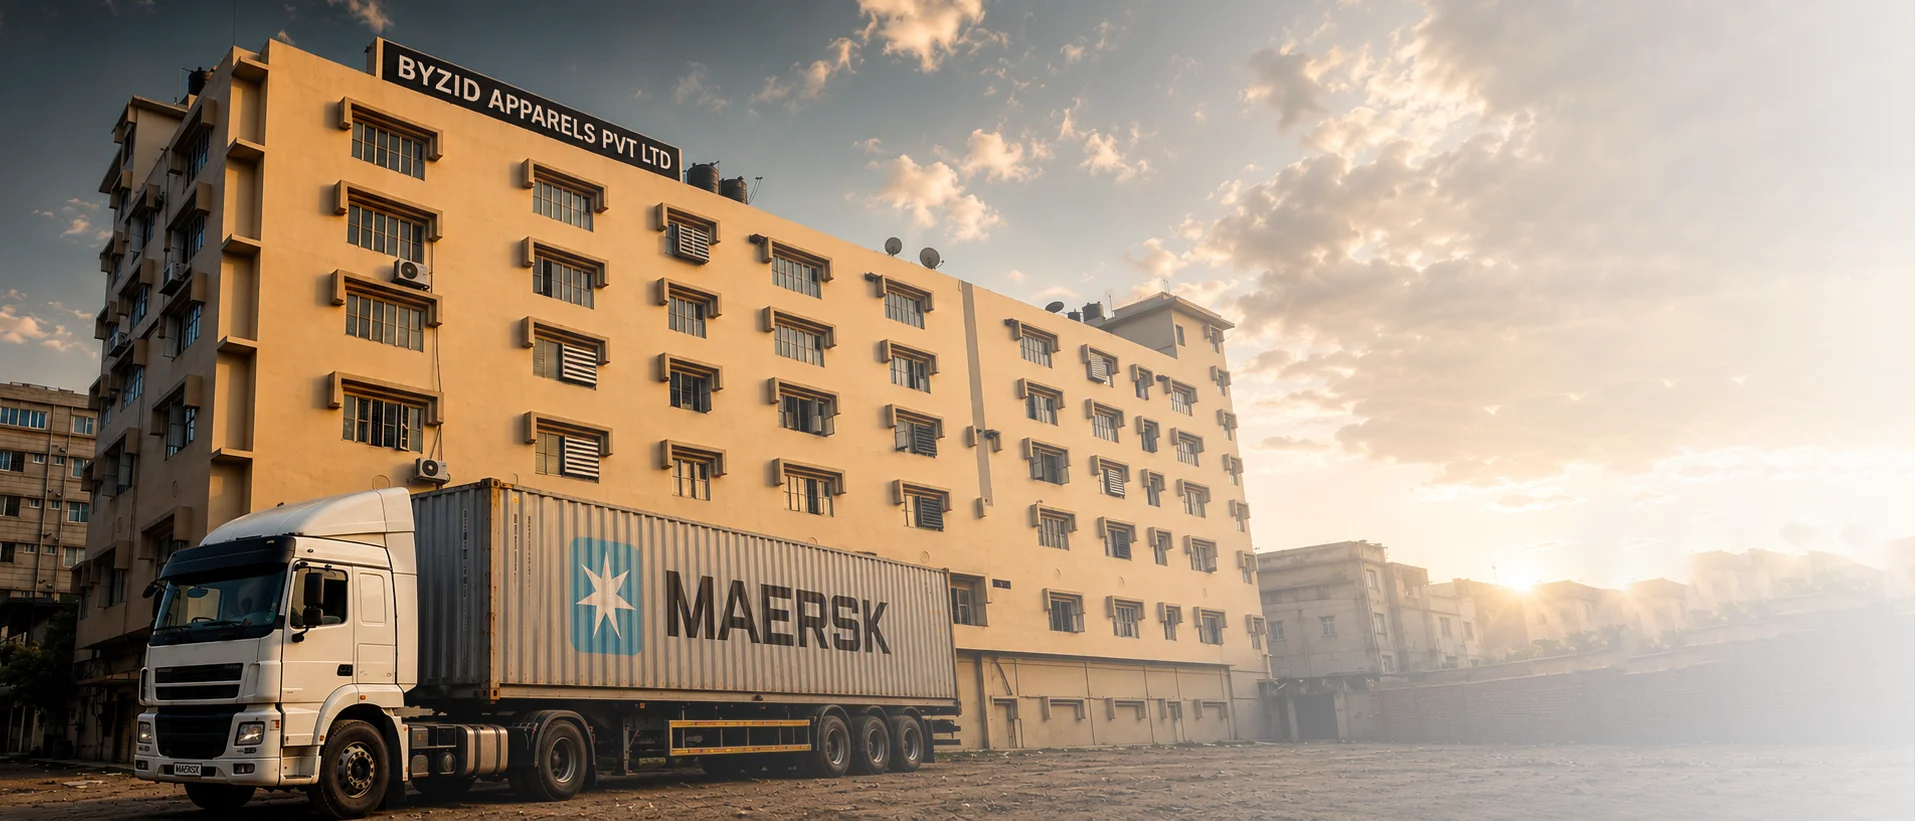
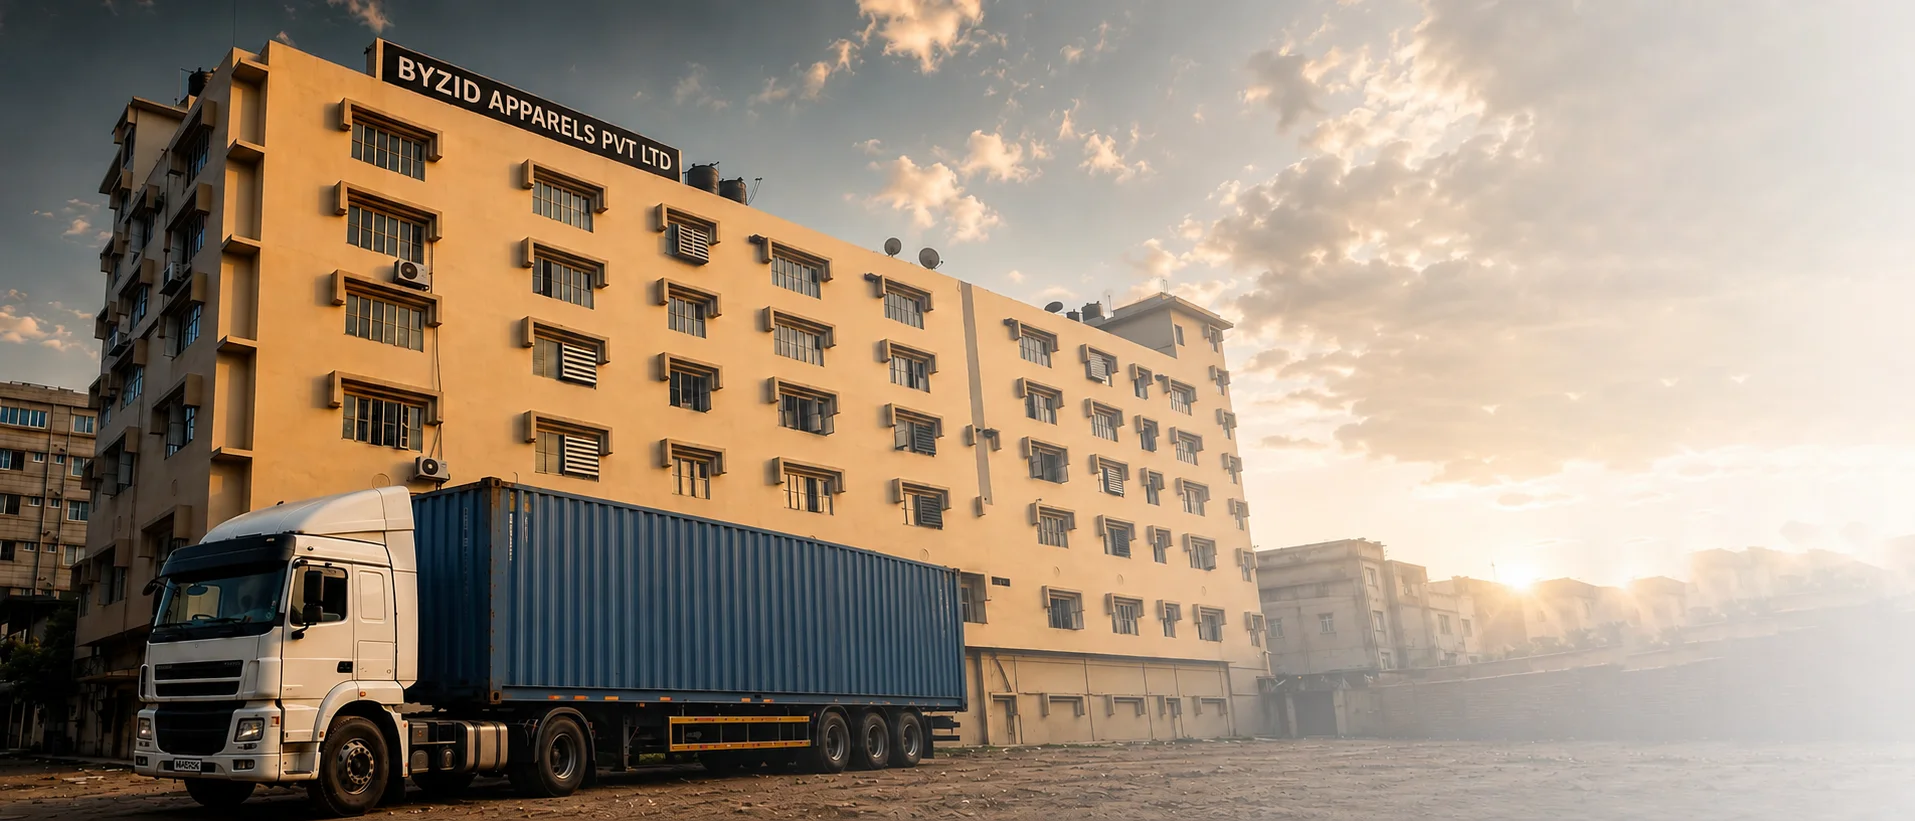
feat: update PC & mobile hero images and redesign Back to Top button as small round circle with animating arrow & 4px top padding

diff --git a/components/DeckContainer.tsx b/components/DeckContainer.tsx
@@ -176,16 +176,16 @@ export const DeckContainer: React.FC = () => {
       </section>
 
       {/* Mobile Bottom Footer & Back to Top */}
-      <footer className="block md:hidden w-full px-6 pt-[6px] pb-[6px] text-center select-none relative z-10">
+      <footer className="block md:hidden w-full px-6 pt-[4px] pb-[6px] text-center select-none relative z-10">
         <button
           type="button"
           onClick={() => scrollToSlide(0)}
-          className="inline-flex items-center gap-2 px-5 py-2.5 rounded-full bg-slate-900/90 border border-slate-700/80 text-slate-300 hover:text-white hover:border-[#55c538] text-xs font-bold transition-all shadow-md active:scale-95 cursor-pointer"
+          aria-label="Back to Top"
+          className="inline-flex items-center justify-center w-8 h-8 rounded-full bg-slate-900/90 border border-slate-700/80 text-[#3b82f6] hover:text-white hover:border-[#3b82f6] transition-all shadow-md active:scale-90 cursor-pointer mx-auto group"
         >
-          <ArrowUp className="w-3.5 h-3.5 text-[#55c538]" />
-          <span>Back to Top</span>
+          <ArrowUp className="w-4 h-4 text-[#3b82f6] animate-bounce" />
         </button>
-        <p className="text-[10px] text-slate-400 mt-2 mb-0 pb-0 leading-tight font-medium">
+        <p className="text-[10px] text-slate-400 mt-1 mb-0 pb-0 leading-tight font-medium">
           © {new Date().getFullYear()} Byzid Apparels (Pvt.) Ltd. All rights reserved.
         </p>
       </footer>
